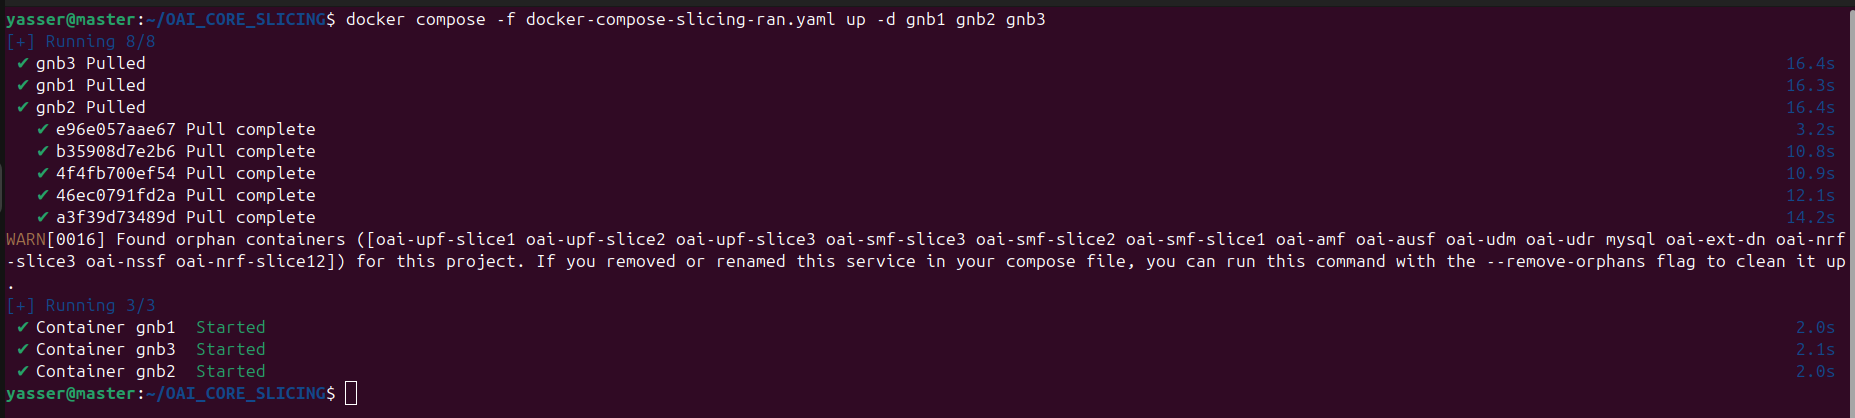
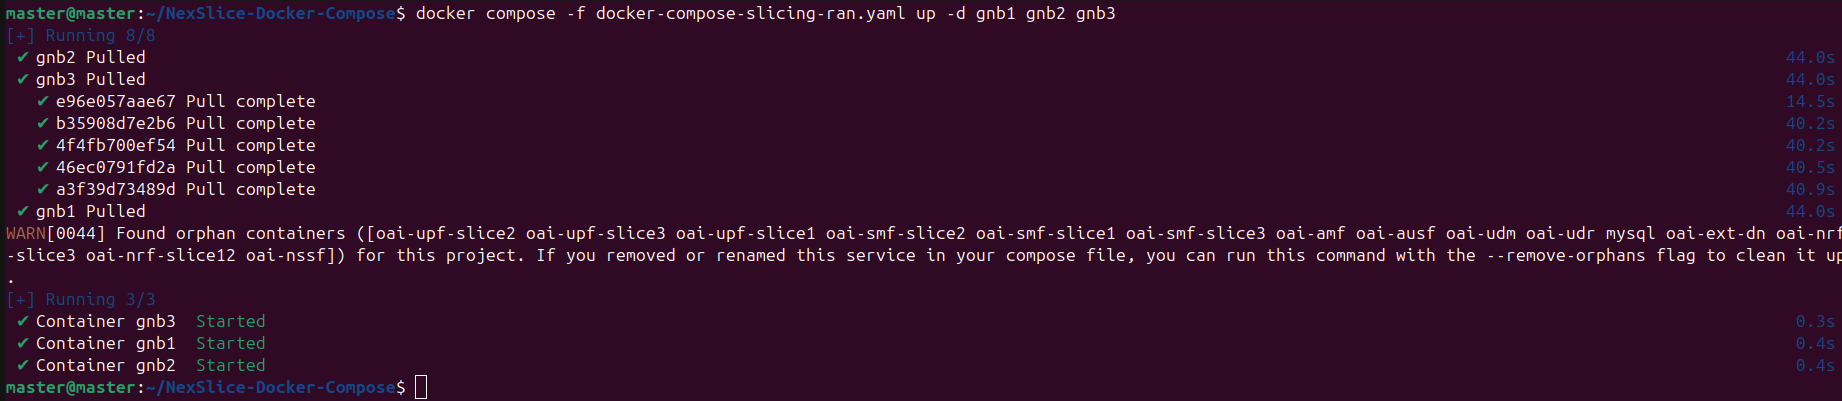
oai-ext version to jammy and some changes

Changed region(s): [[0.0, 0.0, 1.0, 1.0], [0.0, 0.7182, 0.2166, 0.9875]]

diff --git a/README.md b/README.md
@@ -56,22 +56,21 @@ docker ps
 ### **Clone the Repository**
 
 ```bash
-git clone https://github.com/AIDY-F2N/OAI_CORE_SLICING.git
-cd OAI_CORE_SLICING
+git clone https://github.com/AIDY-F2N/NexSlice-Docker-Compose.git
+cd NexSlice-Docker-Compose
 ```
 
 ### **Deploy the 5G Core**
 
 ```bash
-docker compose -f docker-compose-slicing-core.yaml up -d
+docker compose -f 5g-core.yaml up -d
 ```
-![docker ps](fig/core-1.png)
-![docker ps](fig/core-2.png)
+![docker ps](fig/core.png)
 
 #### **Verify Core Deployment**
 
 ```bash
-docker compose -f docker-compose-slicing-core.yaml ps -a
+docker compose -f 5g-core.yaml ps -a
 ```
 All containers should be in the **Up (healthy)** state.
 
@@ -81,14 +80,14 @@ All containers should be in the **Up (healthy)** state.
 ### **Deploy the 3 gNBs**
 
 ```bash
-docker compose -f docker-compose-slicing-ran.yaml up -d gnb1 gnb2 gnb3
+docker compose -f 5g-ran.yaml up -d gnb1 gnb2 gnb3
 ```
 ![docker ps](fig/gnbs.png)
 
 ### **Deploy All UEs**
 
 ```bash
-docker compose -f docker-compose-slicing-ran.yaml up -d ue1 ue2 ue3 ue4 ue5 ue6 ue7
+docker compose -f 5g-ran.yaml up -d ue1 ue2 ue3 ue4 ue5 ue6 ue7
 ```
 ![docker ps](fig/ues.png)
 
@@ -132,13 +131,13 @@ To **undeploy** the network functions, use the following commands:
 ### **Undeploy gNBs & UEs**
 
 ```bash
-docker compose -f docker-compose-slicing-ran.yaml down -t 0
+docker compose -f 5g-ran.yaml down -t 0
 ```
 
 ### **Undeploy 5G Core**
 
 ```bash
-docker compose -f docker-compose-slicing-core.yaml down -t 0
+docker compose -f 5g-core.yaml down -t 0
 ```
 ![docker ps](fig/undeploy.png)
 
